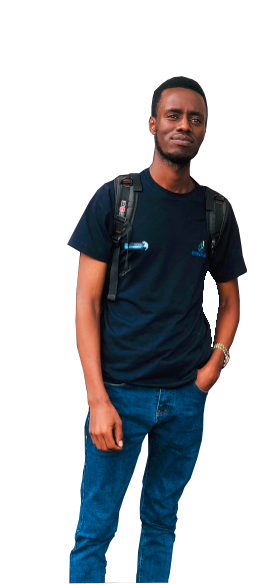
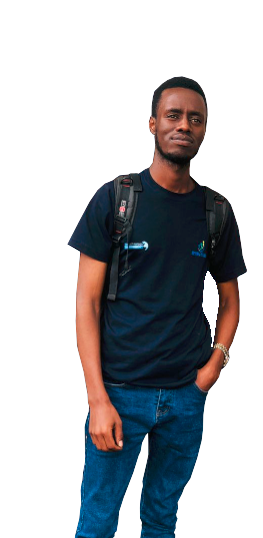
modified image

Changed region(s): [[0.2433, 0.119, 0.943, 1.0], [0.5779, 0.5651, 0.6388, 0.5948], [0.5779, 0.5056, 0.6084, 0.5353]]

diff --git a/src/components/portfolio.jsx b/src/components/portfolio.jsx
@@ -6,7 +6,7 @@ const items = [
     {
         id: 1,
         title: "API Development",
-        img: "/api1.jpeg",
+        img: "/api1.jpeg" ,
         desc:  "They create RESTful or GraphQL APIs to facilitate communication between the frontend and backend components of web applications. Full stack developers design API endpoints, handle HTTP requests and responses, and ensure data integrity and security. ",
     },
    
@@ -74,8 +74,7 @@ const Portfolio = () => {
     const scaleX = useSpring(scrollYProgress, {
         stiffness: 100,
         damping: 30,
-        transion:{
-            duration:1,}
+        
         
     })
 

diff --git a/src/components/hero.jsx b/src/components/hero.jsx
@@ -57,7 +57,7 @@ const Hero = () => {
                 </motion.div>
             </div>
             < motion.div className="slidingTextContainer" variants={sliderVariants} initial="initial" animate="animate">
-                SoftWare Engineer Full Stack Developer
+             Full Stack Developer
             </motion.div>
             <div className="imageContainer">
                 <img src="/Alain.png" alt="" />

diff --git a/src/components/hero.css b/src/components/hero.css
@@ -53,6 +53,7 @@
         right: 20%;
         img {
             width: 150%;
+            margin-top: 3%;
         }
     }
 
